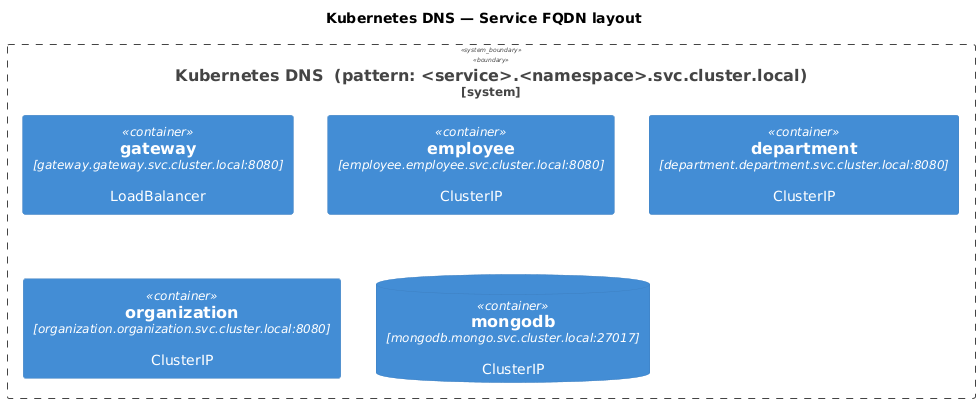
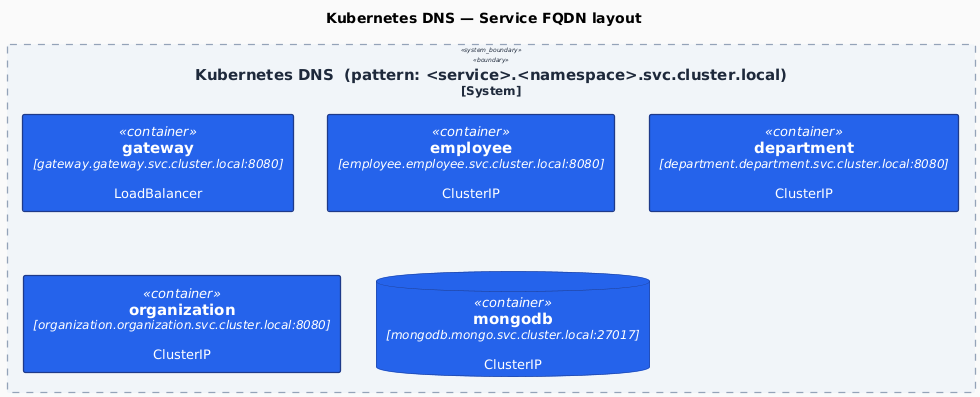
docs: adopt modern-flat PlantUML theme as default for all C4 diagrams
Container, Deployment, and DNS diagrams now share the modern-flat
skinparam block (no shadows, sharp 4px corners, Inter font, teal
person / indigo service / violet db palette). Applied consistently
across c4-container.puml, c4-deployment.puml, c4-dns.puml — PNGs
under docs/diagrams/out/ regenerated.

Removed c4-container-modern.puml since the main file is now the
modern variant. Sketch (!theme sketchy-outline) remains as an
alternate theme example in the README <details> block for those who
prefer a whiteboard aesthetic.

diff --git a/README.md b/README.md
@@ -63,21 +63,13 @@ graph TB
 ```
 
 <details>
-<summary><strong>Same diagram rendered via PlantUML + C4-PlantUML (theme comparison)</strong></summary>
+<summary><strong>Same diagram rendered via PlantUML + C4-PlantUML (modern flat theme)</strong></summary>
 
-**1. Default C4-PlantUML theme** — canonical blue palette, classic look.
+<p align="center"><img src="docs/diagrams/out/c4-container.png" alt="C4 Container diagram (modern flat)" width="720"></p>
 
-<p align="center"><img src="docs/diagrams/out/c4-container.png" alt="C4 Container diagram (default)" width="720"></p>
+Source: [`docs/diagrams/c4-container.puml`](docs/diagrams/c4-container.puml) — skinparam overrides for no shadows, sharp corners, Inter font, teal/indigo/violet palette.
 
-Source: [`docs/diagrams/c4-container.puml`](docs/diagrams/c4-container.puml)
-
-**2. Modern flat theme** — skinparam overrides (no shadows, sharper corners, Inter font, teal/indigo/violet palette).
-
-<p align="center"><img src="docs/diagrams/out/c4-container-modern.png" alt="C4 Container diagram (modern flat)" width="720"></p>
-
-Source: [`docs/diagrams/c4-container-modern.puml`](docs/diagrams/c4-container-modern.puml)
-
-**3. Sketchy / hand-drawn theme** — `!theme sketchy-outline` for a whiteboard-style look (good for "we're still iterating" diagrams).
+**Alternative theme — sketchy / hand-drawn** (`!theme sketchy-outline`): whiteboard look, good for "still iterating" diagrams.
 
 <p align="center"><img src="docs/diagrams/out/c4-container-sketch.png" alt="C4 Container diagram (sketchy)" width="720"></p>
 
